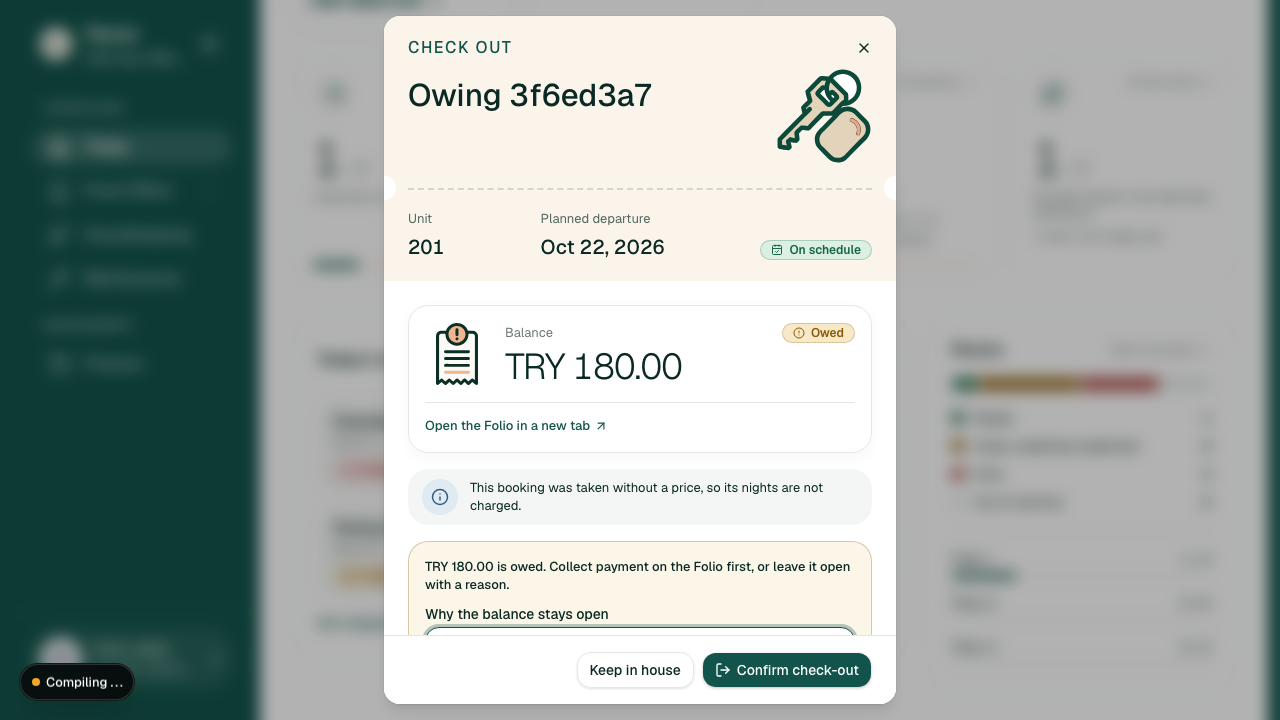
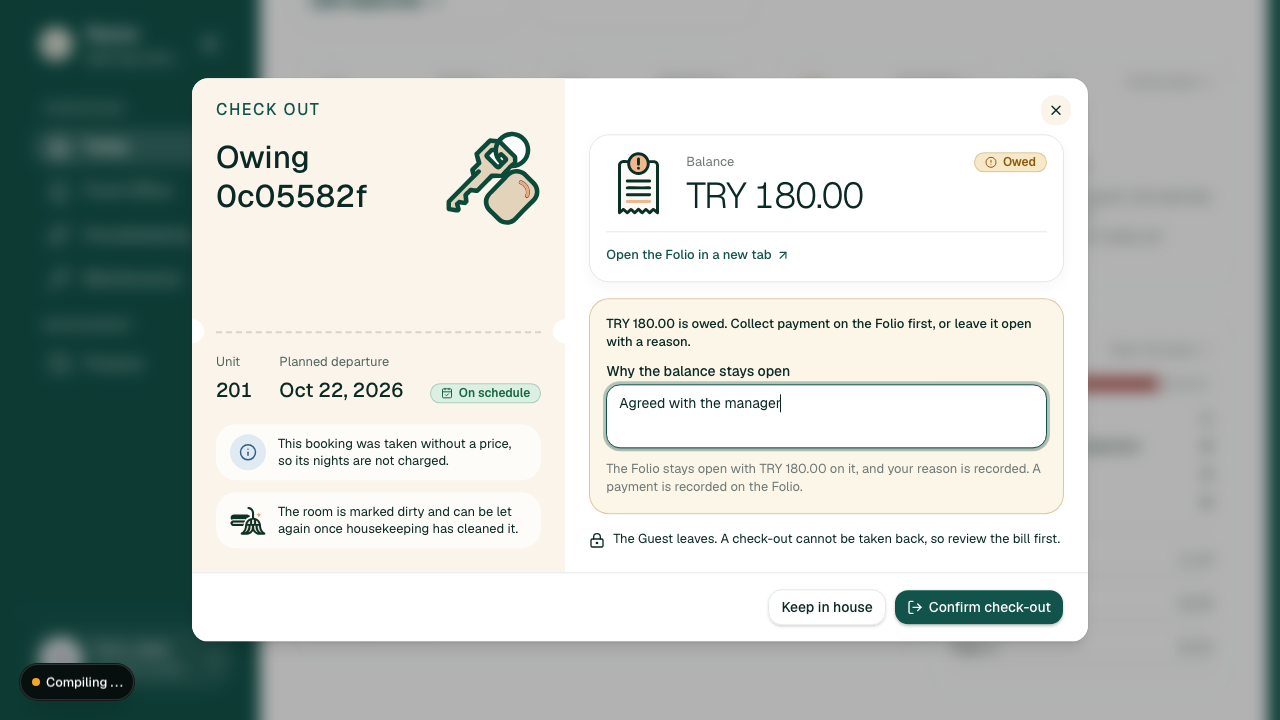
feat(check-out): the review is two columns from tablet width up, so it fits without a scroll
The dialog was one 512px column at every width and scrolled on a desktop
that had room to spare. From md up it is 56rem wide: the ticket carries the
Guest's side (who, which Unit, when, and the notices about this departure)
and the bill and what is asked of the desk sit beside it. Below md it is the
same single column as before.

diff --git a/apps/operator-workspace/src/features/front-office/components/check-out-dialog.tsx b/apps/operator-workspace/src/features/front-office/components/check-out-dialog.tsx
@@ -155,8 +155,11 @@ export function CheckOutDialog({
         </Button>
       </DialogTrigger>
 
-      <DialogContent className="gap-0 p-0 sm:max-w-lg">
-        <form action={act} className="grid">
+      <DialogContent className="gap-0 p-0 sm:max-w-lg md:max-w-[min(56rem,calc(100%-2rem))]">
+        <form
+          action={act}
+          className="grid md:grid-cols-[minmax(0,5fr)_minmax(0,7fr)]"
+        >
           <DepartureTicket
             departure={
               departure.endsOn ? (
@@ -193,9 +196,28 @@ export function CheckOutDialog({
             title={t("checkOutTitle")}
             unit={room}
             unitLabel={t("unit")}
-          />
+          >
+            {departure.overdue && departure.endsOn ? (
+              <Notice icon={AlarmClock} tone="warning">
+                {t("checkOutOverdue", {
+                  count: departure.overdueDays,
+                  date: day(departure.endsOn, locale),
+                })}
+              </Notice>
+            ) : null}
 
-          <div className="grid gap-4 p-6">
+            {unpriced ? (
+              <Notice icon={Info} tone="info">
+                {t("checkOutUnpriced")}
+              </Notice>
+            ) : null}
+
+            {departure.roomWillBeDirty ? (
+              <Notice art="housekeeping">{t("checkOutRoomDirty")}</Notice>
+            ) : null}
+          </DepartureTicket>
+
+          <div className="grid content-start gap-4 p-6 md:pt-14">
             <BillCard
               amount={
                 departure.folioId ? (
@@ -256,21 +278,6 @@ export function CheckOutDialog({
                 </FolioLink>
               ) : null}
             </BillCard>
-
-            {departure.overdue && departure.endsOn ? (
-              <Notice icon={AlarmClock} tone="warning">
-                {t("checkOutOverdue", {
-                  count: departure.overdueDays,
-                  date: day(departure.endsOn, locale),
-                })}
-              </Notice>
-            ) : null}
-
-            {unpriced ? (
-              <Notice icon={Info} tone="info">
-                {t("checkOutUnpriced")}
-              </Notice>
-            ) : null}
 
             <input name="stay" type="hidden" value={departure.stayId} />
             <input name="locale" type="hidden" value={locale} />
@@ -345,10 +352,6 @@ export function CheckOutDialog({
               </div>
             ) : null}
 
-            {departure.roomWillBeDirty ? (
-              <Notice art="housekeeping">{t("checkOutRoomDirty")}</Notice>
-            ) : null}
-
             {message ? (
               <div aria-live="polite">
                 <FormError>{message}</FormError>
@@ -364,7 +367,7 @@ export function CheckOutDialog({
             </DialogDescription>
           </div>
 
-          <DialogFooter className="bottom-0 mx-0 mb-0 border-t px-6 py-4">
+          <DialogFooter className="bottom-0 mx-0 mb-0 border-t px-6 py-4 md:col-span-2">
             <DialogClose asChild>
               <Button type="button" variant="outline">
                 {t("keepInHouse")}

diff --git a/apps/operator-workspace/src/features/front-office/components/check-out-parts.tsx b/apps/operator-workspace/src/features/front-office/components/check-out-parts.tsx
@@ -1,4 +1,4 @@
-import type { ReactNode } from "react";
+import { Children, type ReactNode } from "react";
 import Link from "next/link";
 import { ArrowUpRight, type LucideIcon } from "lucide-react";
 import { cn, DialogTitle } from "@ranza/ui";
@@ -42,9 +42,12 @@ const STUB_LABEL = "text-step--1 text-foreground/70";
 /**
  * Who is leaving, from which Unit, and when they were due, on a ticket with a
  * perforated stub. The notches are clipped by the ticket itself, so the shape
- * holds at any width and mirrors in Arabic.
+ * holds at any width and mirrors in Arabic. What else is true of this
+ * check-out is set under the stub as `children`, so the ticket is the whole of
+ * the Guest's side of the dialog and the bill has the other.
  */
 export function DepartureTicket({
+  children,
   departure,
   guest,
   status,
@@ -53,6 +56,7 @@ export function DepartureTicket({
   unitLabel,
   departureLabel,
 }: {
+  children?: ReactNode;
   departure: ReactNode;
   departureLabel: string;
   guest: string;
@@ -62,8 +66,8 @@ export function DepartureTicket({
   unitLabel: string;
 }) {
   return (
-    <div className="relative overflow-hidden bg-accent-soft">
-      <div className="flex items-start gap-4 px-6 pt-4 pb-6">
+    <div className="relative flex flex-col overflow-hidden bg-accent-soft">
+      <div className="flex flex-1 items-start gap-4 px-6 pt-4 pb-6">
         <div className="grid min-w-0 flex-1 gap-3">
           <div className="flex min-h-8 items-center pe-10">
             <DialogTitle className="text-step--1 font-medium tracking-widest text-primary-text uppercase rtl:tracking-normal">
@@ -96,6 +100,10 @@ export function DepartureTicket({
         </div>
         <div>{status}</div>
       </dl>
+
+      {Children.toArray(children).length > 0 ? (
+        <div className="grid gap-3 px-6 pb-6">{children}</div>
+      ) : null}
     </div>
   );
 }
@@ -185,7 +193,10 @@ const NOTICE_TONE = {
   warning: "bg-warning-soft text-warning",
 } as const;
 
-/** A fact about this check-out that is not a figure: a short row, then its words. */
+/**
+ * A fact about this check-out that is not a figure: a short row, then its
+ * words. It sits on the ticket, so it is a lighter card than the ticket.
+ */
 export function Notice({
   art,
   children,
@@ -198,7 +209,7 @@ export function Notice({
   tone?: keyof typeof NOTICE_TONE;
 }) {
   return (
-    <div className="flex items-center gap-3 rounded-xl bg-muted px-3.5 py-2.5">
+    <div className="flex items-center gap-3 rounded-xl bg-card/70 px-3.5 py-2.5">
       {art ? (
         <Illustration art={art} className="size-9" />
       ) : Icon && tone ? (
